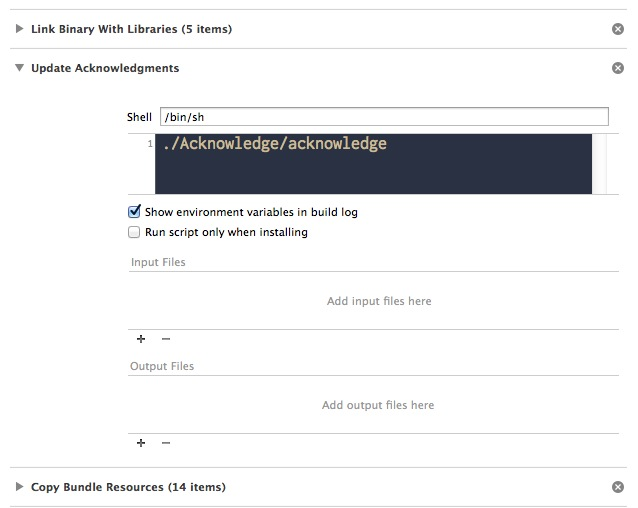
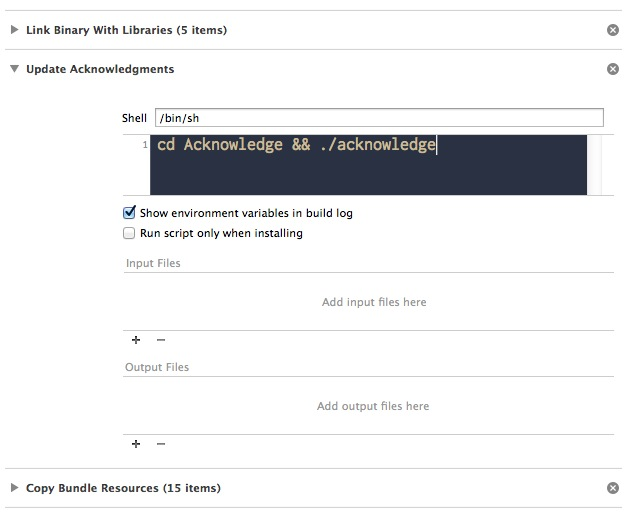
Update build phase

diff --git a/README.md b/README.md
@@ -67,6 +67,16 @@ The acknowledgments generated by Cocoapods will always be prepended with `10_`.
     |- Coolproject.xcworkspace
     |- ...
 
+## Test it
+
+Don't skip this step, you'll need to output in the next one.
+
+Open a terminal window and run `acknowledge` once to see if it works, and to generate the initial `Acknowledgments.rtf`.
+
+    $ ./acknowledge
+
+Fix any errors and proceed.
+
 ## Add it to Xcode
 
 ### Add the acknowledgments to your project
@@ -85,7 +95,7 @@ Keeping your acknowledgments up to date is easy if you add Acknowledge as a buil
 1. Name your script something like "Update Acknowledgments" and position it so that it's above `Copy Bundle Resources`;
 1. Now add the following code:
 
-    ./Acknowledge/acknowledge
+    cd Acknowledge && ./acknowledge
 
 (Make sure you adapt it if the script isn't located in the default folder.)
 
